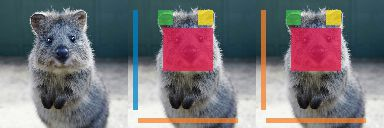
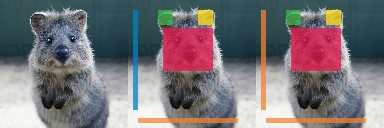
Update segmap docs to 0.2.9; Fix examples; Increase jpg quality

diff --git a/generate_documentation_images.py b/generate_documentation_images.py
@@ -1154,10 +1154,12 @@ def chapter_examples_segmentation_maps():
 
 
 def chapter_examples_segmentation_maps_simple():
-    import imgaug as ia
-    from imgaug import augmenters as iaa
     import imageio
     import numpy as np
+    import imgaug as ia
+    import imgaug.augmenters as iaa
+    from imgaug.augmentables.segmaps import SegmentationMapOnImage
+
 
     ia.seed(1)
 
@@ -1173,33 +1175,30 @@ def chapter_examples_segmentation_maps_simple():
     segmap[10:25, 70:85] = 3
     segmap[10:110, 5:10] = 4
     segmap[118:123, 10:110] = 5
-    segmap = ia.SegmentationMapOnImage(segmap, shape=image.shape, nb_classes=1+5)
+    segmap = SegmentationMapOnImage(segmap, shape=image.shape, nb_classes=1+5)
 
     # Define our augmentation pipeline.
     seq = iaa.Sequential([
         iaa.Dropout([0.05, 0.2]),      # drop 5% or 20% of all pixels
         iaa.Sharpen((0.0, 1.0)),       # sharpen the image
-        iaa.Affine(rotate=(-45, 45)),  # rotate by -45 to 45 degrees (affects heatmaps)
-        iaa.ElasticTransformation(alpha=50, sigma=5)  # apply water effect (affects heatmaps)
+        iaa.Affine(rotate=(-45, 45)),  # rotate by -45 to 45 degrees (affects segmaps)
+        iaa.ElasticTransformation(alpha=50, sigma=5)  # apply water effect (affects segmaps)
     ], random_order=True)
 
-    # Augment images and heatmaps.
+    # Augment images and segmaps.
     images_aug = []
     segmaps_aug = []
     for _ in range(5):
-        seq_det = seq.to_deterministic()
-        images_aug.append(seq_det.augment_image(image))
-        segmaps_aug.append(seq_det.augment_segmentation_maps([segmap])[0])
+        images_aug_i, segmaps_aug_i = seq(image=image, segmentation_maps=segmap)
+        images_aug.append(images_aug_i)
+        segmaps_aug.append(segmaps_aug_i)
 
-    # We want to generate an image of original input images and heatmaps before/after augmentation.
-    # It is supposed to have five columns: (1) original image, (2) augmented image,
-    # (3) augmented heatmap on top of augmented image, (4) augmented heatmap on its own in jet
-    # color map, (5) augmented heatmap on its own in intensity colormap,
+    # We want to generate an image of original input images and segmaps
+    # before/after augmentation.
+    # It is supposed to have five columns: (1) original image, (2) original
+    # image with segmap, (3) augmented image, (4) augmented
+    # segmap on augmented image, (5) augmented segmap on its own in.
     # We now generate the cells of these columns.
-    #
-    # Note that we add a [0] after each heatmap draw command. That's because the heatmaps object
-    # can contain many sub-heatmaps and hence we draw command returns a list of drawn sub-heatmaps.
-    # We only used one sub-heatmap, so our lists always have one entry.
     cells = []
     for image_aug, segmap_aug in zip(images_aug, segmaps_aug):
         cells.append(image)                                      # column 1
@@ -1210,7 +1209,7 @@ def chapter_examples_segmentation_maps_simple():
 
     # Convert cells to grid image and save.
     grid_image = ia.draw_grid(cells, cols=5)
-    #imageio.imwrite("example_segmaps.jpg", grid_image)
+    # imageio.imwrite("example_segmaps.jpg", grid_image)
 
     save(
         "examples_segmentation_maps",
@@ -1283,9 +1282,11 @@ def chapter_examples_segmentation_maps_bool_full():
 
 
 def chapter_examples_segmentation_maps_bool_small():
-    import imgaug as ia
     import imageio
     import numpy as np
+    import imgaug as ia
+    from imgaug.augmentables.segmaps import SegmentationMapOnImage
+
 
     # Load an example image (uint8, 128x128x3).
     image = ia.quokka(size=(128, 128), extract="square")
@@ -1294,9 +1295,10 @@ def chapter_examples_segmentation_maps_bool_small():
     # Here, we just randomly place a square on the image.
     segmap = np.zeros((128, 128), dtype=bool)
     segmap[28:71, 35:85] = True
-    segmap = ia.SegmentationMapOnImage(segmap, shape=image.shape)
+    segmap = SegmentationMapOnImage(segmap, shape=image.shape)
 
-    # Draw three columns: (1) original image, (2) original image with mask on top, (3) only mask
+    # Draw three columns: (1) original image,
+    # (2) original image with mask on top, (3) only mask
     cells = [
         image,
         segmap.draw_on_image(image),
@@ -1305,20 +1307,22 @@ def chapter_examples_segmentation_maps_bool_small():
 
     # Convert cells to grid image and save.
     grid_image = ia.draw_grid(cells, cols=3)
-    #imageio.imwrite("example_segmaps_bool.jpg", grid_image)
+    # imageio.imwrite("example_segmaps_bool.jpg", grid_image)
 
     save(
         "examples_segmentation_maps",
         "bool_small.jpg",
         grid_image,
-        quality=80
+        quality=90
     )
 
 
 def chapter_examples_segmentation_maps_array():
-    import imgaug as ia
     import imageio
     import numpy as np
+    import imgaug as ia
+    from imgaug.augmentables.segmaps import SegmentationMapOnImage
+
 
     # Load an example image (uint8, 128x128x3).
     image = ia.quokka(size=(128, 128), extract="square")
@@ -1332,15 +1336,17 @@ def chapter_examples_segmentation_maps_array():
     segmap[10:25, 70:85] = 3
     segmap[10:110, 5:10] = 4
     segmap[118:123, 10:110] = 5
-    segmap1 = ia.SegmentationMapOnImage(segmap, shape=image.shape, nb_classes=1+5)
+    segmap1 = SegmentationMapOnImage(segmap, shape=image.shape, nb_classes=1+5)
 
-    # Read out the segmentation map's array, change it and create a new segmentation map
+    # Read out the segmentation map's array, change it and create a new
+    # segmentation map
     arr = segmap1.get_arr_int()
     arr[10:110, 5:10] = 5
     segmap2 = ia.SegmentationMapOnImage(arr, shape=image.shape, nb_classes=1+5)
 
-    # Draw three columns: (1) original image, (2) original image with unaltered segmentation
-    # map on top, (3) original image with altered segmentation map on top
+    # Draw three columns: (1) original image, (2) original image with
+    # unaltered segmentation map on top, (3) original image with altered
+    # segmentation map on top
     cells = [
         image,
         segmap1.draw_on_image(image),
@@ -1349,13 +1355,13 @@ def chapter_examples_segmentation_maps_array():
 
     # Convert cells to grid image and save.
     grid_image = ia.draw_grid(cells, cols=3)
-    #imageio.imwrite("example_segmaps_array.jpg", grid_image)
+    # imageio.imwrite("example_segmaps_array.jpg", grid_image)
 
     save(
         "examples_segmentation_maps",
         "array.jpg",
         grid_image,
-        quality=80
+        quality=90
     )
 
 

diff --git a/source/examples_segmentation_maps.rst b/source/examples_segmentation_maps.rst
@@ -17,19 +17,44 @@ will also be rotated by 45°.
 
 Features of the library's segmentation map support:
 
-    * Represent segmentation maps as objects (`imgaug.SegmentationMapOnImage`).
+    * Represent segmentation maps as objects (`imgaug.augmentables.segmaps.SegmentationMapOnImage`).
     * Support integer maps (integer dtypes, usually int32), boolean masks (`np.bool_`) and float32
       maps (these are essentially identical to heatmaps).
     * Augment segmentation maps (only geometry-affecting augmentations,
       e.g. affine transformations, cropping, ...).
     * Use different resolutions for segmentation maps than for images (e.g. 32x32 segmentation
       maps for 256x256 images).
-    * Draw segmentation maps -- on their own or on images (`imgaug.SegmentationMapOnImage.draw()`,
-      `imgaug.SegmentationMapOnImage.draw_on_image()`).
-    * Resize segmentation maps (`imgaug.SegmentationMapOnImage.scale()`).
+    * Draw segmentation maps -- on their own or on images (`SegmentationMapOnImage.draw()`,
+      `SegmentationMapOnImage.draw_on_image()`).
+    * Resize segmentation maps (`SegmentationMapOnImage.scale()`).
     * Pad segmentation maps by pixel amounts or to desired aspect ratios
-      (`imgaug.SegmentationMapOnImage.pad()`,
-      `imgaug.SegmentationMapOnImage.pad_to_aspect_ratio()`).
+      (`SegmentationMapOnImage.pad()`,
+      `SegmentationMapOnImage.pad_to_aspect_ratio()`).
+
+
+Notebook
+--------
+
+A jupyter notebook for segmentation map augmentation is available at
+:ref:`page_jupyter_notebooks`. The notebooks are usually more up to date
+and contain more examples than the ReadTheDocs documentation.
+
+
+Upcoming Changes
+----------------
+
+Segmentation maps are currently implemented internally as a wrapper around
+heatmaps and as such use float-based arrays for their internal representation.
+This will be changed to integer-based arrays in 0.3.0. The arguments
+`nb_classes`, `background_class_id` and `background_threshold`
+will be removed or deprecated. The method `get_arr_int()` will be removed
+or deprecated. Resizing via cubic interpolation will no longer be recommended
+and the default resizing method will change to nearest neighbour interpolation.
+The class will be renamed from `SegmentationMapOnImage` to
+`SegmentationMapsOnImage` and get an optional channel-axis to represent multiple
+segmentation maps on the same image (e.g. multiple object classes with each
+having one instance segmentation map).
+
 
 
 A simple example
@@ -41,10 +66,12 @@ are visualized.
 
 ::
 
-    import imgaug as ia
-    from imgaug import augmenters as iaa
     import imageio
     import numpy as np
+    import imgaug as ia
+    import imgaug.augmenters as iaa
+    from imgaug.augmentables.segmaps import SegmentationMapOnImage
+
 
     ia.seed(1)
 
@@ -60,33 +87,30 @@ are visualized.
     segmap[10:25, 70:85] = 3
     segmap[10:110, 5:10] = 4
     segmap[118:123, 10:110] = 5
-    segmap = ia.SegmentationMapOnImage(segmap, shape=image.shape, nb_classes=1+5)
+    segmap = SegmentationMapOnImage(segmap, shape=image.shape, nb_classes=1+5)
 
     # Define our augmentation pipeline.
     seq = iaa.Sequential([
         iaa.Dropout([0.05, 0.2]),      # drop 5% or 20% of all pixels
         iaa.Sharpen((0.0, 1.0)),       # sharpen the image
-        iaa.Affine(rotate=(-45, 45)),  # rotate by -45 to 45 degrees (affects heatmaps)
-        iaa.ElasticTransformation(alpha=50, sigma=5)  # apply water effect (affects heatmaps)
+        iaa.Affine(rotate=(-45, 45)),  # rotate by -45 to 45 degrees (affects segmaps)
+        iaa.ElasticTransformation(alpha=50, sigma=5)  # apply water effect (affects segmaps)
     ], random_order=True)
 
-    # Augment images and heatmaps.
+    # Augment images and segmaps.
     images_aug = []
     segmaps_aug = []
     for _ in range(5):
-        seq_det = seq.to_deterministic()
-        images_aug.append(seq_det.augment_image(image))
-        segmaps_aug.append(seq_det.augment_segmentation_maps([segmap])[0])
+        images_aug_i, segmaps_aug_i = seq(image=image, segmentation_maps=segmap)
+        images_aug.append(images_aug_i)
+        segmaps_aug.append(segmaps_aug_i)
 
-    # We want to generate an image of original input images and heatmaps before/after augmentation.
-    # It is supposed to have five columns: (1) original image, (2) augmented image,
-    # (3) augmented heatmap on top of augmented image, (4) augmented heatmap on its own in jet
-    # color map, (5) augmented heatmap on its own in intensity colormap,
+    # We want to generate an image of original input images and segmaps
+    # before/after augmentation.
+    # It is supposed to have five columns: (1) original image, (2) original
+    # image with segmap, (3) augmented image, (4) augmented
+    # segmap on augmented image, (5) augmented segmap on its own in.
     # We now generate the cells of these columns.
-    #
-    # Note that we add a [0] after each heatmap draw command. That's because the heatmaps object
-    # can contain many sub-heatmaps and hence we draw command returns a list of drawn sub-heatmaps.
-    # We only used one sub-heatmap, so our lists always have one entry.
     cells = []
     for image_aug, segmap_aug in zip(images_aug, segmaps_aug):
         cells.append(image)                                      # column 1
@@ -117,9 +141,11 @@ to `np.zeros((128, 128), dtype=bool)`.
 
 ::
 
-    import imgaug as ia
     import imageio
     import numpy as np
+    import imgaug as ia
+    from imgaug.augmentables.segmaps import SegmentationMapOnImage
+
 
     # Load an example image (uint8, 128x128x3).
     image = ia.quokka(size=(128, 128), extract="square")
@@ -128,9 +154,10 @@ to `np.zeros((128, 128), dtype=bool)`.
     # Here, we just randomly place a square on the image.
     segmap = np.zeros((128, 128), dtype=bool)
     segmap[28:71, 35:85] = True
-    segmap = ia.SegmentationMapOnImage(segmap, shape=image.shape)
+    segmap = SegmentationMapOnImage(segmap, shape=image.shape)
 
-    # Draw three columns: (1) original image, (2) original image with mask on top, (3) only mask
+    # Draw three columns: (1) original image,
+    # (2) original image with mask on top, (3) only mask
     cells = [
         image,
         segmap.draw_on_image(image),
@@ -161,9 +188,11 @@ The below code shows an example that accesses and changes the array.
 
 ::
 
-    import imgaug as ia
     import imageio
     import numpy as np
+    import imgaug as ia
+    from imgaug.augmentables.segmaps import SegmentationMapOnImage
+
 
     # Load an example image (uint8, 128x128x3).
     image = ia.quokka(size=(128, 128), extract="square")
@@ -177,15 +206,17 @@ The below code shows an example that accesses and changes the array.
     segmap[10:25, 70:85] = 3
     segmap[10:110, 5:10] = 4
     segmap[118:123, 10:110] = 5
-    segmap1 = ia.SegmentationMapOnImage(segmap, shape=image.shape, nb_classes=1+5)
+    segmap1 = SegmentationMapOnImage(segmap, shape=image.shape, nb_classes=1+5)
 
-    # Read out the segmentation map's array, change it and create a new segmentation map
+    # Read out the segmentation map's array, change it and create a new
+    # segmentation map
     arr = segmap1.get_arr_int()
     arr[10:110, 5:10] = 5
     segmap2 = ia.SegmentationMapOnImage(arr, shape=image.shape, nb_classes=1+5)
 
-    # Draw three columns: (1) original image, (2) original image with unaltered segmentation
-    # map on top, (3) original image with altered segmentation map on top
+    # Draw three columns: (1) original image, (2) original image with
+    # unaltered segmentation map on top, (3) original image with altered
+    # segmentation map on top
     cells = [
         image,
         segmap1.draw_on_image(image),
